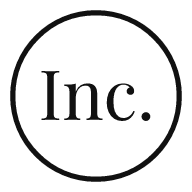
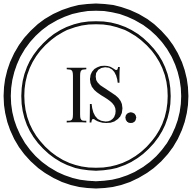
Убран вход и уведомления через Telegram (без передачи данных за границу); значки сайта — печать IS.
Claude-Session: https://claude.ai/code/session_01Ad37STfbDxrRXFHscUQecZ

Changed region(s): [[0.0, 0.0, 1.0, 1.0], [0.2188, 0.3125, 0.7812, 0.6562]]

diff --git a/public/account.js b/public/account.js
@@ -27,9 +27,9 @@
       if (j.user && !params.get('privyazat')) { location.replace(ret); return; }
       if (j.user) { $('h1').textContent = 'Подключить способ входа'; $('#login-email').remove(); j.methods.email = false; }
       var m = j.methods || {};
-      var ya = $('#login-yandex'), tg = $('#login-telegram'), form = $('#login-email');
-      ya.hidden = !m.yandex; tg.hidden = !m.telegram; form.hidden = !m.email;
-      if (!m.yandex && !m.telegram && !m.email) msgEl.textContent = 'Вход временно недоступен.';
+      var ya = $('#login-yandex'), form = $('#login-email');
+      ya.hidden = !m.yandex; form.hidden = !m.email;
+      if (!m.yandex && !m.email) msgEl.textContent = 'Вход временно недоступен.';
 
       function sync() {
         var ok = consent.checked;
@@ -38,33 +38,6 @@
       }
       consent.addEventListener('change', sync); sync();
       ya.addEventListener('click', function (e) { if (!consent.checked) { e.preventDefault(); msgEl.textContent = 'Отметьте согласие на обработку данных.'; } });
-
-      // Вход через бота: открываем Telegram по ссылке t.me/<бот>?start=<код>, человек подтверждает вход кнопкой в боте,
-      // а эта страница раз в 2 секунды спрашивает сервер, готово ли
-      var polling = null;
-      tg.addEventListener('click', function () {
-        if (!consent.checked) { msgEl.textContent = 'Отметьте согласие на обработку данных.'; return; }
-        var win = window.open('', '_blank');      // открываем окно сразу по нажатию, иначе браузер его заблокирует
-        tg.disabled = true;
-        api('POST', '/auth/telegram/start', { consent: true }).then(function (r) {
-          tg.disabled = false;
-          if (!r.url) { if (win) win.close(); msgEl.textContent = r.error || 'Не получилось начать вход.'; return; }
-          if (win) { win.opener = null; win.location.href = r.url; }
-          msgEl.textContent = '';
-          msgEl.appendChild(document.createTextNode('В Telegram нажмите «Запустить», а затем «Войти на ' + location.host + '». Эта страница обновится сама. Telegram не открылся? '));
-          var a = el('a', null, 'Открыть бота'); a.href = r.url; a.target = '_blank'; a.rel = 'noopener';
-          msgEl.appendChild(a);
-          clearInterval(polling);
-          var started = Date.now();
-          polling = setInterval(function () {
-            if (Date.now() - started > 10 * 60e3) { clearInterval(polling); msgEl.textContent = 'Время на вход истекло. Нажмите «Войти через Telegram» ещё раз.'; return; }
-            api('GET', '/auth/telegram/status?nonce=' + encodeURIComponent(r.nonce)).then(function (s) {
-              if (s.state === 'ok') { clearInterval(polling); if (window.goal) window.goal('login'); setTimeout(function () { location.replace(ret); }, 300); }
-              else if (s.state === 'expired' || s.state === 'error' || s.status === 403) { clearInterval(polling); msgEl.textContent = s.error || 'Время на вход истекло. Нажмите «Войти через Telegram» ещё раз.'; }
-            }, function () {});
-          }, 2000);
-        }, function () { tg.disabled = false; if (win) win.close(); msgEl.textContent = 'Сервер входа не отвечает. Попробуйте позже.'; });
-      });
 
       var step = 'email', email = $('#email'), code = $('#code'), btn = $('#email-btn');
       form.addEventListener('submit', function (e) {
@@ -173,21 +146,16 @@
 
         // Уведомления
         sec = section('Уведомления об изменениях');
-        var opts = [['telegram', 'В Telegram'], ['email', 'На почту'], ['none', 'Не присылать']];
+        var opts = [['email', 'На почту'], ['none', 'Не присылать']];
         var fs = el('div', 'cab-notify');
         opts.forEach(function (o) {
           var lab = el('label'); var inp = el('input'); inp.type = 'radio'; inp.name = 'notify'; inp.value = o[0];
           inp.checked = u.notify === o[0];
-          if ((o[0] === 'telegram' && !u.can_telegram) || (o[0] === 'email' && !u.can_email)) inp.disabled = true;
+          if (o[0] === 'email' && !u.can_email) inp.disabled = true;
           inp.addEventListener('change', function () { api('PATCH', '/api/me', { notify: o[0] }); });
           lab.appendChild(inp); lab.appendChild(document.createTextNode(' ' + o[1])); fs.appendChild(lab);
         });
         sec.appendChild(fs);
-        if (!u.can_telegram && me.methods && me.methods.telegram) {
-          var tp = el('p', 'note-sm', 'Чтобы получать уведомления в Telegram, ');
-          tp.appendChild(link('подключите Telegram', '/vhod/?privyazat=1&return=/kabinet/'));
-          tp.appendChild(document.createTextNode(' к этому аккаунту.')); sec.appendChild(tp);
-        }
 
         // История
         sec = section('История проверок');

diff --git a/HANDOFF.md b/HANDOFF.md
@@ -184,3 +184,8 @@ innfact.ru, www и fin-check.shop — постоянный редирект на
 2. СберБизнес ID / Т-Бизнес ID — вход с подтверждённым ИНН компании (нужен договор с банком).
 3. Подарочная подписка Ultima — после запуска ЮKassa.
 4. Больше документов и разборов в «Юристе» по поисковым запросам.
+
+## 30.09.2026, вечер: Telegram убран, значок — печать
+- Вход и уведомления через Telegram удалены (код, кнопка, политика, тесты, пересылка /tg/ на Render). Трансграничной передачи ПДн нет; в политике раздел «Передача за границу». Поле users.telegram_id осталось в базе, не используется. Владельцу: удалить TELEGRAM_* из /etc/sut/api.env и Render-сервис пересылки, если он больше не нужен.
+- Значки сайта (favicon.svg/ico, icon-192/512, apple-touch-icon, logo.png, og.png) перерисованы: печать «IS.»; на мелких размерах упрощённая (два кольца и монограмма).
+- Письма для входа по почте: порт 465 у Timeweb открыт владельцем, проверить вход по коду.
